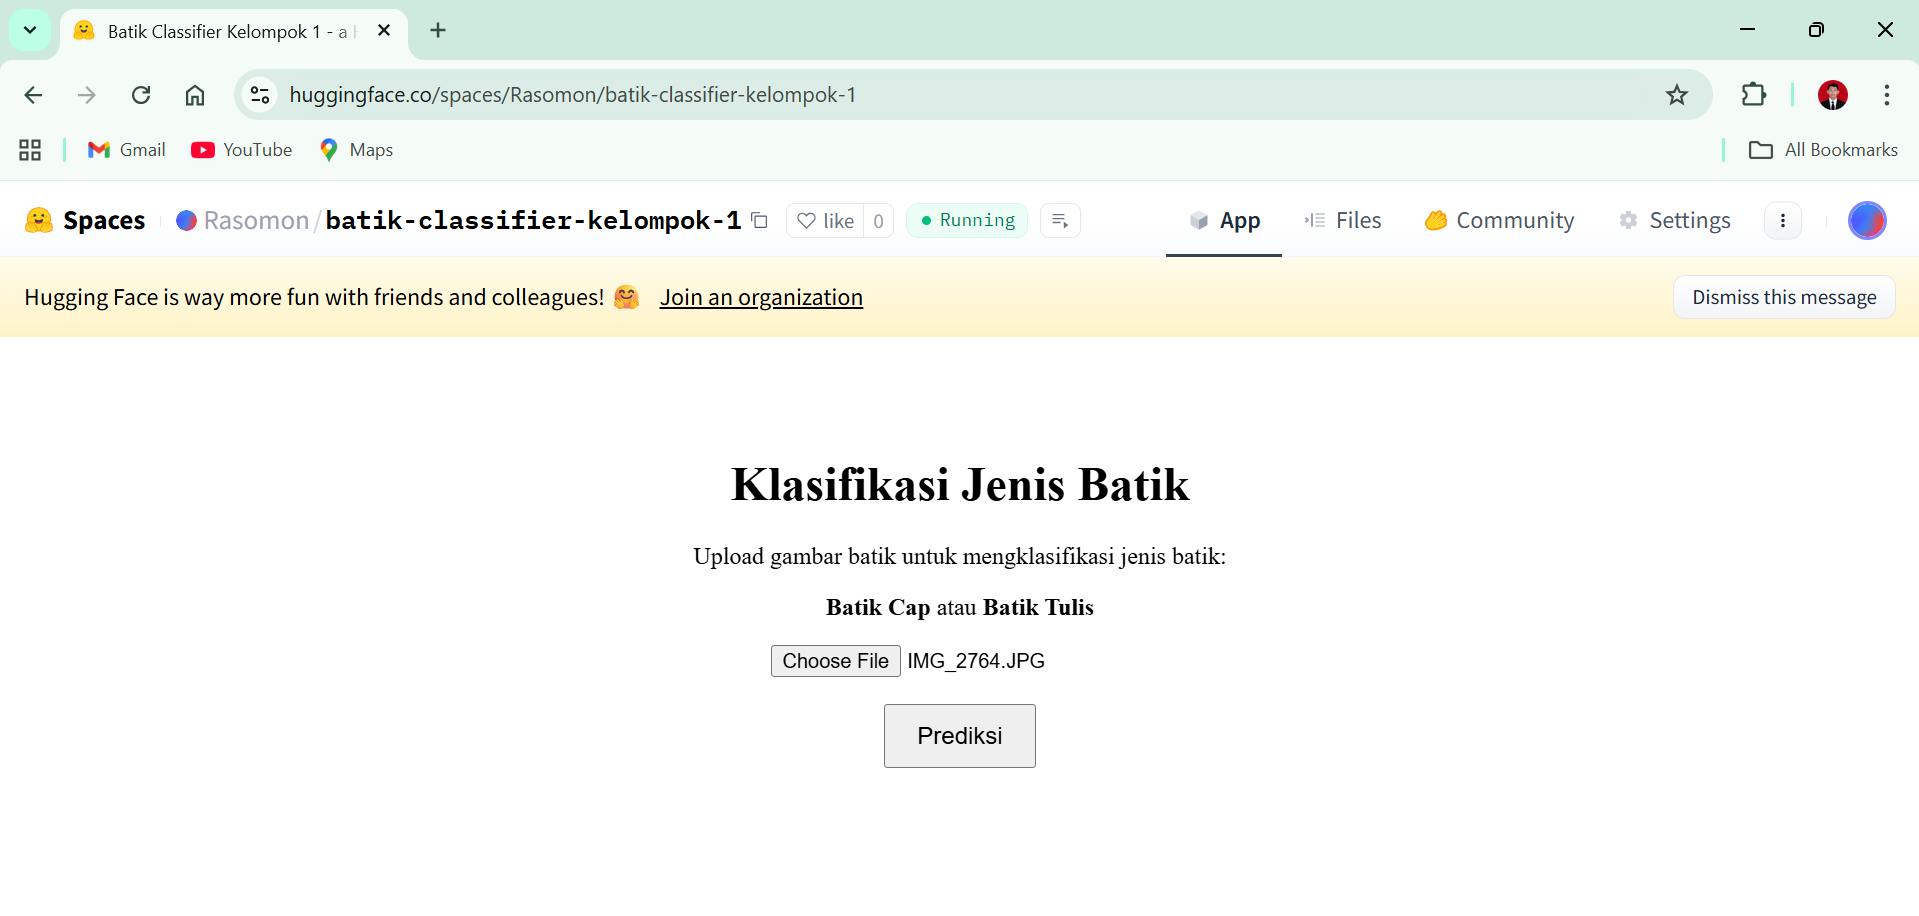
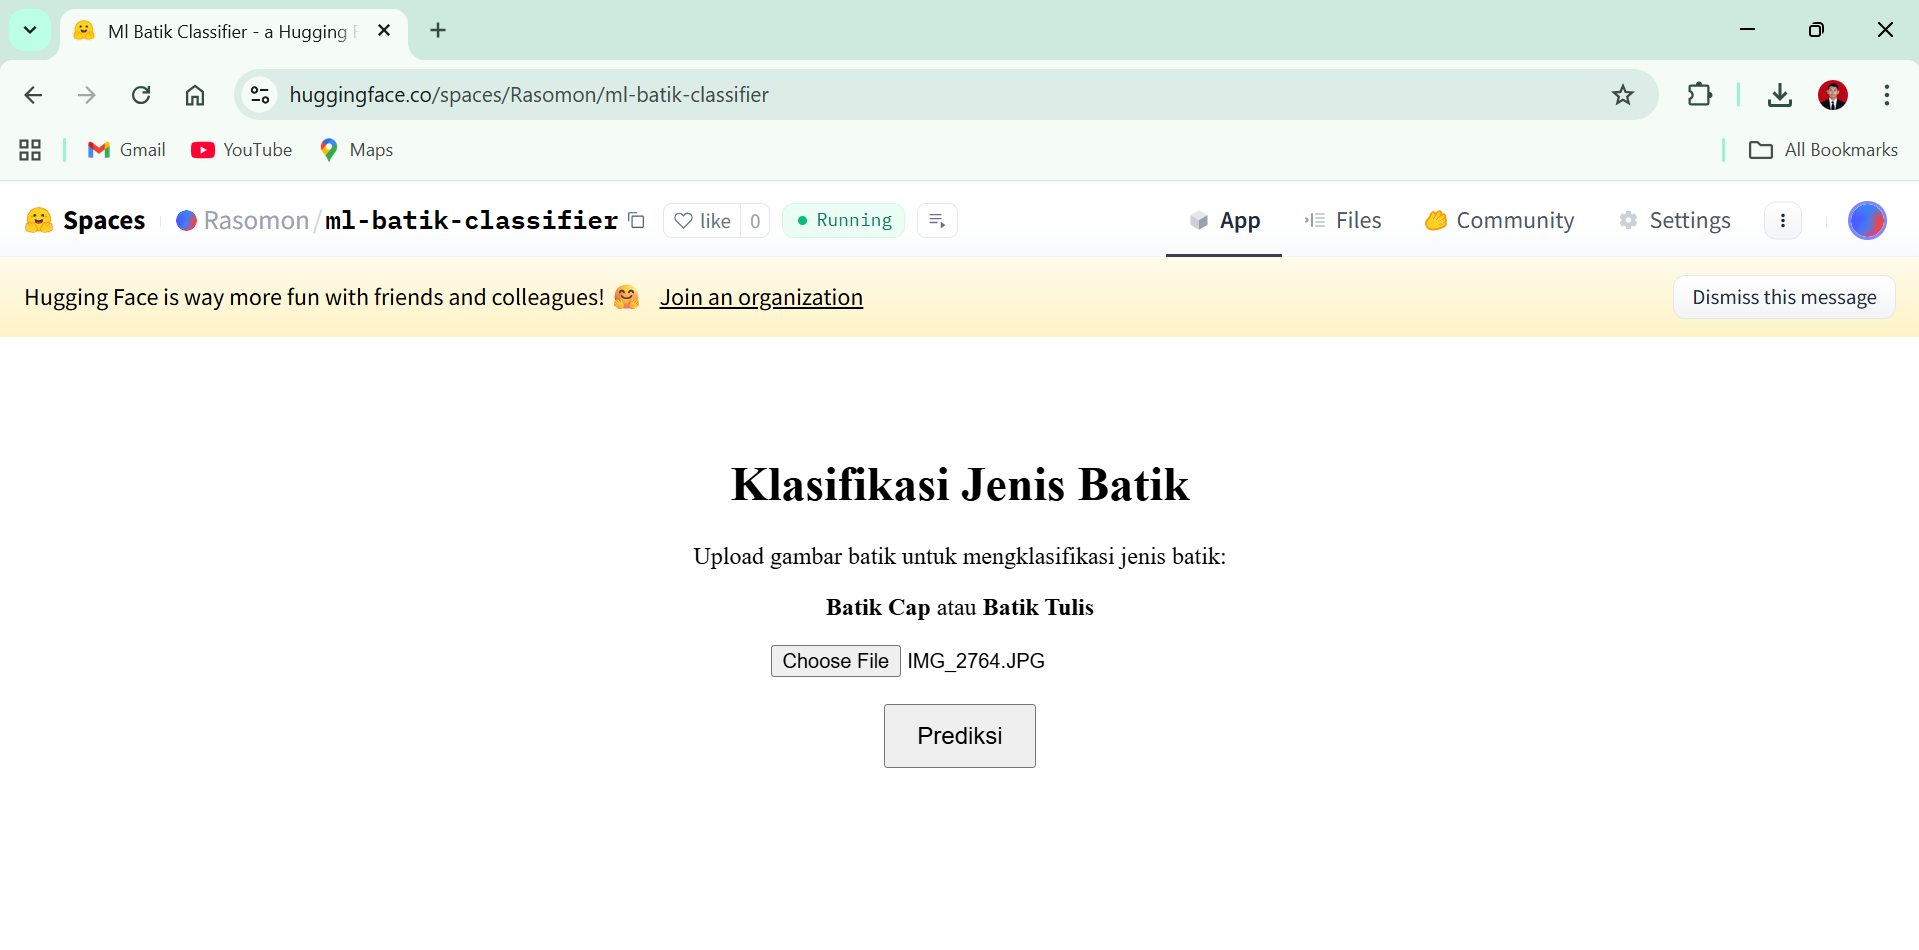
chore: redeploy batik classifier and enable image results - JS15 TP

diff --git a/JS15/TP_JS15/app.py b/JS15/TP_JS15/app.py
@@ -1,113 +1,150 @@
-import os
+import io
 import numpy as np
+from PIL import Image
+
+from flask import Flask, request, render_template_string
+
 import torch
 import torch.nn as nn
-from torchvision import transforms
-from flask import Flask, request, render_template_string
-from PIL import Image
-import io
+from torchvision import models, transforms
 
 app = Flask(__name__)
 
-# Load Model
-MODEL_PATH = 'batik_type_model.pth'
+# ======================
+# Config (sesuai training)
+# ======================
+MODEL_PATH = "batik_type_model.pth"
 
-# Define model architecture (sesuaikan dengan arsitektur model Anda)
-class BatikClassifier(nn.Module):
-    def __init__(self):
-        super(BatikClassifier, self).__init__()
-        self.features = nn.Sequential(
-            nn.Conv2d(3, 32, kernel_size=3, padding=1),
-            nn.ReLU(),
-            nn.MaxPool2d(2, 2),
-            nn.Conv2d(32, 64, kernel_size=3, padding=1),
-            nn.ReLU(),
-            nn.MaxPool2d(2, 2),
-            nn.Conv2d(64, 128, kernel_size=3, padding=1),
-            nn.ReLU(),
-            nn.MaxPool2d(2, 2),
-        )
-        self.classifier = nn.Sequential(
-            nn.Flatten(),
-            nn.Linear(128 * 32 * 32, 128),
-            nn.ReLU(),
-            nn.Dropout(0.5),
-            nn.Linear(128, 2)
-        )
-    
-    def forward(self, x):
-        x = self.features(x)
-        x = self.classifier(x)
-        return x
+TARGET_W, TARGET_H = 540, 630
+BLOCK_SIZE = 90
+PATCH_SIZE = 180
+EXPECTED_PATCHES = 30
+
+IMAGENET_MEAN = [0.485, 0.456, 0.406]
+IMAGENET_STD  = [0.229, 0.224, 0.225]
+
+# mapping output (sesuai ImageFolder alphabetical): cap=0, tulis=1
+CLASS_NAMES = ["Batik Cap", "Batik Tulis"]
+
+DEVICE = torch.device("cuda" if torch.cuda.is_available() else "cpu")
+
+# ======================
+# Model
+# ======================
+def build_model(num_classes=2):
+    # weights=None supaya tidak download pretrained di runtime
+    model = models.vgg13_bn(weights=None)
+    in_features = model.classifier[-1].in_features
+    model.classifier[-1] = nn.Linear(in_features, num_classes)
+    return model
 
 try:
-    device = torch.device('cuda' if torch.cuda.is_available() else 'cpu')
-    model = BatikClassifier()
-    model.load_state_dict(torch.load(MODEL_PATH, map_location=device))
-    model.to(device)
+    model = build_model(num_classes=2)
+    state = torch.load(MODEL_PATH, map_location="cpu")
+    model.load_state_dict(state)
+    model.to(DEVICE)
     model.eval()
-    print("✅ System Loaded Successfully")
+    print("✅ Model loaded:", MODEL_PATH, "| device:", DEVICE)
 except Exception as e:
-    print(f"❌ Error loading system: {e}")
+    print("❌ Failed to load model:", e)
+    raise
 
-# Image preprocessing
-transform = transforms.Compose([
-    transforms.Resize((256, 256)),
+# ======================
+# Preprocess: resize -> 30 patches
+# ======================
+patch_tfms = transforms.Compose([
     transforms.ToTensor(),
-    transforms.Normalize(mean=[0.485, 0.456, 0.406], std=[0.229, 0.224, 0.225])
+    transforms.Normalize(mean=IMAGENET_MEAN, std=IMAGENET_STD),
 ])
 
-def preprocess_image(image_bytes):
-    # Decode gambar
-    img = Image.open(io.BytesIO(image_bytes)).convert('RGB')
-    
-    # Apply transformations
-    img_tensor = transform(img).unsqueeze(0)  # Add batch dimension
-    
-    return img_tensor
+def resize_image(pil_img: Image.Image) -> Image.Image:
+    pil_img = pil_img.convert("RGB")
+    return pil_img.resize((TARGET_W, TARGET_H), resample=Image.BILINEAR)
 
-@app.route('/', methods=['GET'])
+def extract_30_patches(pil_img: Image.Image):
+    w, h = pil_img.size
+    blocks_x = w // BLOCK_SIZE  # 6
+    blocks_y = h // BLOCK_SIZE  # 7
+
+    patches = []
+    for by in range(blocks_y - 1):
+        for bx in range(blocks_x - 1):
+            left = bx * BLOCK_SIZE
+            upper = by * BLOCK_SIZE
+            right = left + PATCH_SIZE
+            lower = upper + PATCH_SIZE
+            patches.append(pil_img.crop((left, upper, right, lower)))
+    return patches
+
+@torch.no_grad()
+def predict_from_bytes(image_bytes: bytes):
+    img = Image.open(io.BytesIO(image_bytes)).convert("RGB")
+    img = resize_image(img)
+    patches = extract_30_patches(img)
+
+    if len(patches) != EXPECTED_PATCHES:
+        raise RuntimeError(f"Patch count != {EXPECTED_PATCHES}. Got {len(patches)}")
+
+    batch = torch.stack([patch_tfms(p) for p in patches], dim=0).to(DEVICE)  # [30,3,180,180]
+    logits = model(batch)                       # [30,2]
+    probs = torch.softmax(logits, dim=1)        # [30,2]
+    avg_prob = probs.mean(dim=0).cpu().numpy()  # [2]
+
+    pred_idx = int(np.argmax(avg_prob))
+    return pred_idx, avg_prob
+
+# ======================
+# Routes (TAMPILAN DISAMAKAN DENGAN app.py (2))
+# ======================
+HOME_HTML = """
+<div style="text-align:center; padding:50px;">
+    <h1>Klasifikasi Jenis Batik</h1>
+    <p>Upload gambar batik untuk mengklasifikasi jenis batik:</p>
+    <p><b>Batik Cap</b> atau <b>Batik Tulis</b></p>
+    <form action="/predict" method="post" enctype="multipart/form-data">
+        <input type="file" name="file" accept="image/*" required><br><br>
+        <button type="submit" style="padding:10px 20px; font-size:16px;">Prediksi</button>
+    </form>
+</div>
+"""
+
+RESULT_HTML = """
+<div style="text-align:center; padding:50px;">
+    <h1>Hasil Klasifikasi</h1>
+    <h2 style="color:#2E7D32;">{{label}}</h2>
+
+    <p style="margin-top:18px; margin-bottom:6px;"><b>Probabilitas rata-rata (30 patch)</b></p>
+    <p style="margin:0;">Batik Cap: {{p_cap}}</p>
+    <p style="margin:0;">Batik Tulis: {{p_tulis}}</p>
+
+    <br>
+    <a href="/" style="padding:10px 20px; background:#1976D2; color:white; text-decoration:none; border-radius:5px;">Kembali</a>
+</div>
+"""
+
+@app.get("/")
 def home():
-    return render_template_string('''
-    <div style="text-align:center; padding:50px;">
-        <h1>Klasifikasi Jenis Batik</h1>
-        <p>Upload gambar batik untuk mengklasifikasi jenis batik:</p>
-        <p><b>Batik Cap</b> atau <b>Batik Tulis</b></p>
-        <form action="/predict" method="post" enctype="multipart/form-data">
-            <input type="file" name="file" accept="image/*" required><br><br>
-            <button type="submit" style="padding:10px 20px; font-size:16px;">Prediksi</button>
-        </form>
-    </div>
-    ''')
+    return render_template_string(HOME_HTML)
 
-@app.route('/predict', methods=['POST'])
-def predict():
+@app.post("/predict")
+def predict_route():
     try:
-        file = request.files['file']
-        img_tensor = preprocess_image(file.read())
-        
-        # Prediction
-        with torch.no_grad():
-            img_tensor = img_tensor.to(device)
-            outputs = model(img_tensor)
-            _, predicted = torch.max(outputs, 1)
-            probabilities = torch.nn.functional.softmax(outputs, dim=1)
-        
-        # Class labels: 0 = Batik Tulis, 1 = Batik Cap
-        class_names = ['Batik Tulis', 'Batik Cap']
-        predicted_class = class_names[predicted.item()]
-        
-        return render_template_string('''
-        <div style="text-align:center; padding:50px;">
-            <h1>Hasil Klasifikasi</h1>
-            <h2 style="color:#2E7D32;">{{ predicted_class }}</h2>
-            <br>
-            <a href="/" style="padding:10px 20px; background:#1976D2; color:white; text-decoration:none; border-radius:5px;">Kembali</a>
-        </div>
-        ''', predicted_class=predicted_class)
+        file = request.files["file"]
+        pred_idx, avg_prob = predict_from_bytes(file.read())
+
+        label = CLASS_NAMES[pred_idx]
+        p_cap = float(avg_prob[0])
+        p_tulis = float(avg_prob[1])
+
+        return render_template_string(
+            RESULT_HTML,
+            label=label,
+            p_cap=f"{p_cap:.4f}",
+            p_tulis=f"{p_tulis:.4f}",
+        )
     except Exception as e:
         return f"<h2 style='text-align:center; color:red;'>Error: {e}</h2><center><a href='/'>Kembali</a></center>"
 
-if __name__ == '__main__':
-    # Port 7860 wajib untuk Hugging Face Spaces
-    app.run(host='0.0.0.0', port=7860)
+if __name__ == "__main__":
+    # Port 7860 wajib untuk HF Spaces
+    app.run(host="0.0.0.0", port=7860)

diff --git a/JS15/TP_JS15/README.md b/JS15/TP_JS15/README.md
@@ -20,7 +20,7 @@ license: apache-2.0
 
 ## Link Deployment
 
-🔗 [Hugging Face Space - Batik Classifier](https://huggingface.co/spaces/Rasomon/batik-classifier-kelompok-1)
+🔗 [Hugging Face Space - Batik Classifier](https://huggingface.co/spaces/Rasomon/ml-batik-classifier)
 
 ## Hasil Deploy
 
